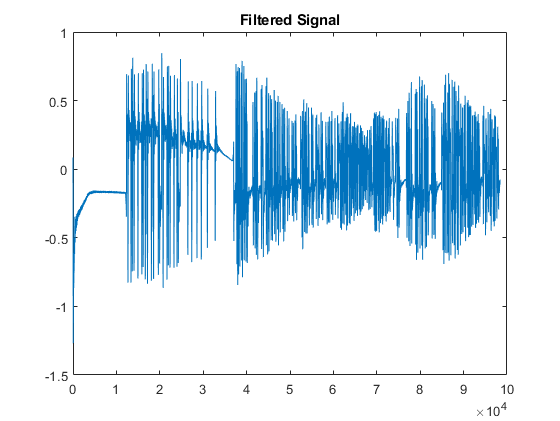
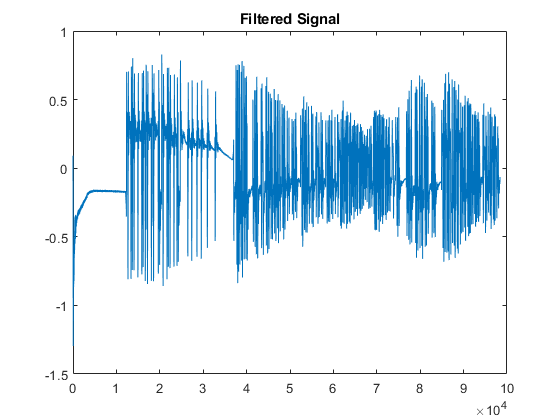
Changed W value

diff --git a/modem_rx_starter.m b/modem_rx_starter.m
@@ -43,7 +43,7 @@ DTFT_fftbased(y_cos);
 
 %%
 % Apply low pass filter
-W = 480;
+W = f_c/2 + 20;
 h = W/pi*sinc(W/pi*t);
 
 % Convolve the signal with the low-pass filter and plot the output
